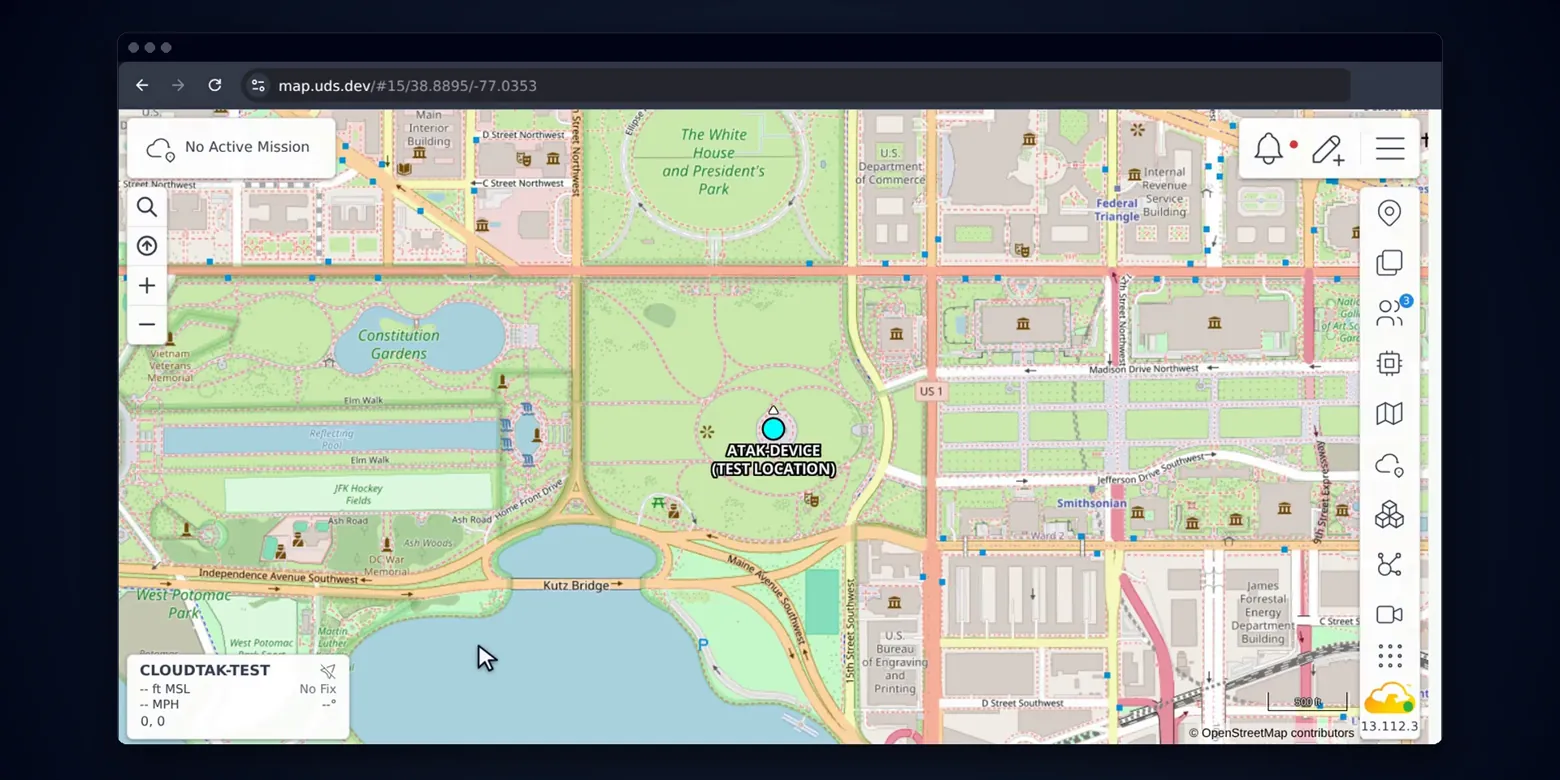
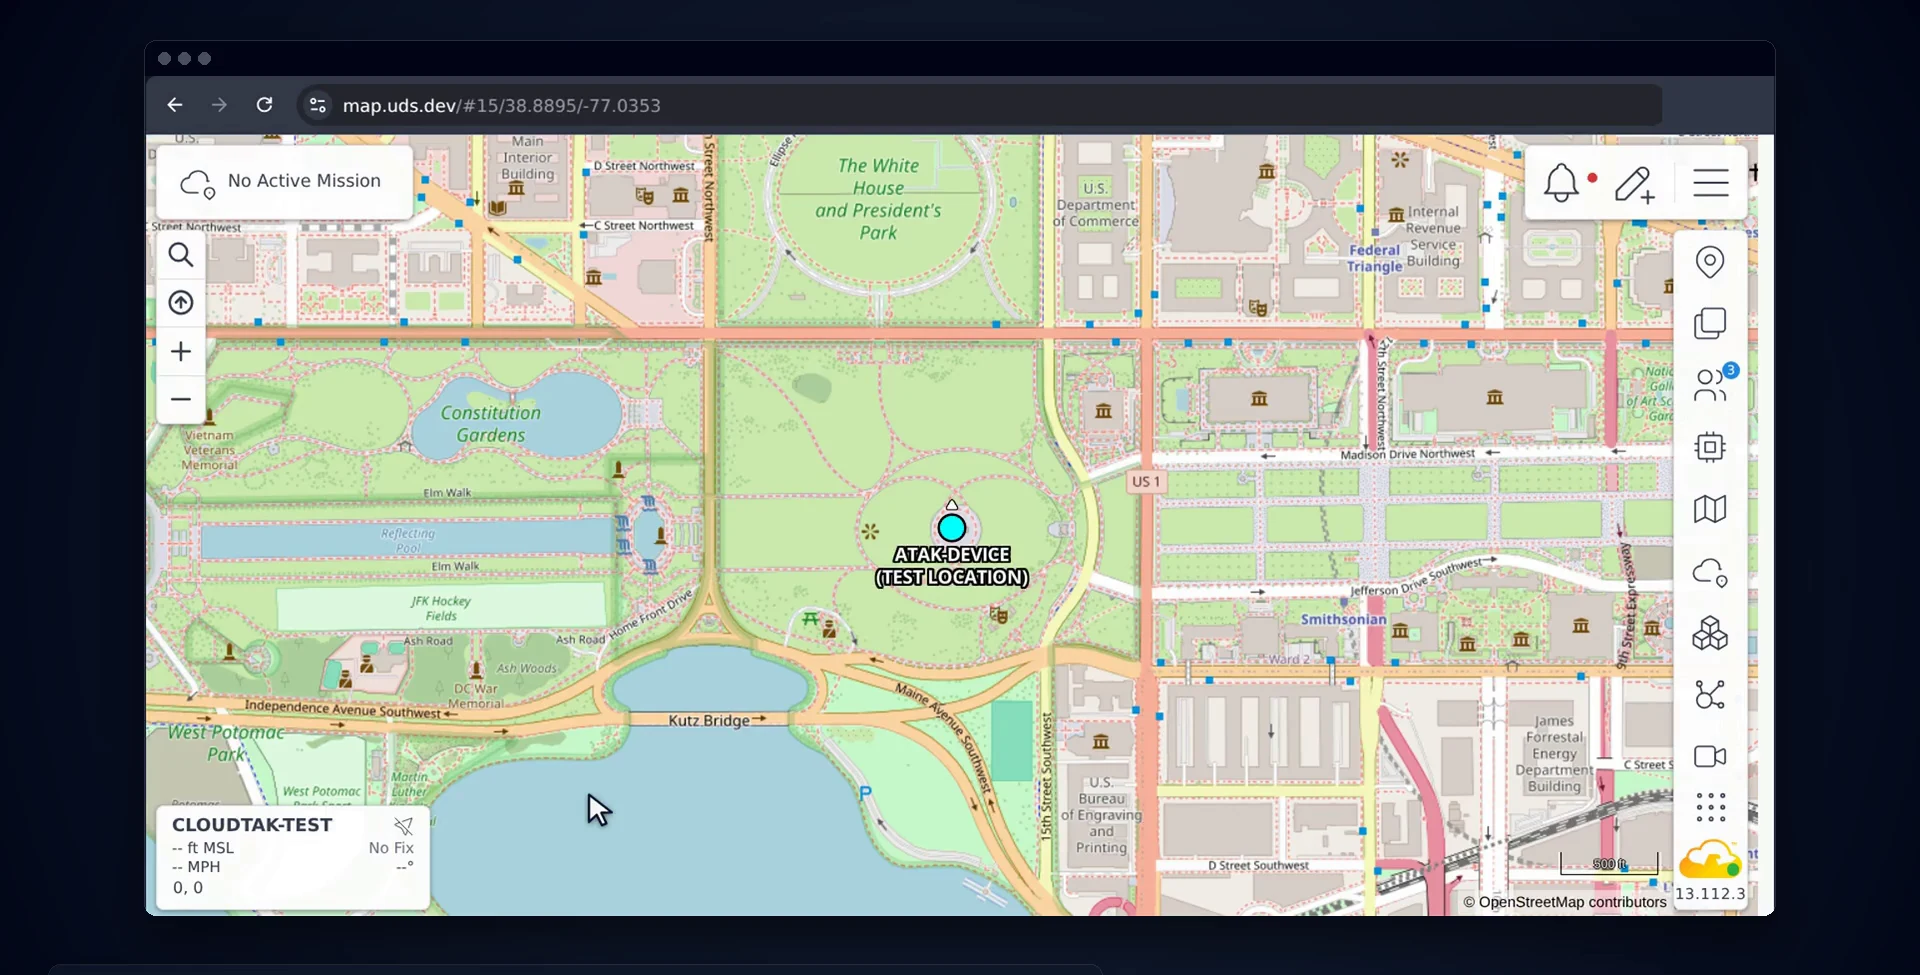
docs(readme): stack the ATAK device and CloudTAK screenshots (#302)

Changed region(s): [[0.0615, 0.0923, 0.9231, 0.9538]]

diff --git a/README.md b/README.md
@@ -6,16 +6,12 @@
 [![OpenSSF Best Practices](https://www.bestpractices.dev/projects/15775/badge)](https://www.bestpractices.dev/projects/15775)
 [![License: GPL-3.0-only](https://img.shields.io/badge/license-GPL--3.0--only-blue)](LICENSE)
 
-<table>
-  <tr>
-    <td align="center" width="40%"><a href="https://github.com/jonathanagustin/uds-k3d-takserver/releases/download/demo/demo-deploy.mp4"><img src="docs-site/public/demo/atak-device.png" alt="ATAK-CIV on an Android test device, connected to the server with its own marker" width="100%"></a></td>
-    <td align="center" width="60%"><a href="https://github.com/jonathanagustin/uds-k3d-takserver/releases/download/demo/demo-operate-and-trust.mp4"><img src="docs-site/public/demo/cloudtak-map.webp" alt="The same ATAK device's marker on the CloudTAK map in the browser" width="100%"></a></td>
-  </tr>
-  <tr>
-    <td align="center">A real ATAK device, connected over mutual TLS</td>
-    <td align="center">The same device on the CloudTAK map</td>
-  </tr>
-</table>
+<p align="center">
+  <a href="https://github.com/jonathanagustin/uds-k3d-takserver/releases/download/demo/demo-deploy.mp4"><img src="docs-site/public/demo/atak-device.webp" alt="atak.uds.dev: the ATAK test device, connected to TAK over mutual TLS on 8089" width="90%"></a>
+</p>
+<p align="center">
+  <a href="https://github.com/jonathanagustin/uds-k3d-takserver/releases/download/demo/demo-operate-and-trust.mp4"><img src="docs-site/public/demo/cloudtak-map.webp" alt="map.uds.dev: the same ATAK device's marker on the CloudTAK map" width="90%"></a>
+</p>
 
 [TAK Server](https://github.com/TAK-Product-Center/Server), the open-source Team Awareness Kit server, packaged for [UDS](https://docs.defenseunicorns.com/core/). It deploys the upstream TAK Server Helm chart (`5.7-RELEASE-14`) onto UDS Core. It adds Keycloak sign-in, the browser map client [CloudTAK](https://github.com/dfpc-coe/CloudTAK), and default-deny networking. It is built and tested on a local k3d cluster running `k3d-core-slim-dev` (UDS Core 1.16.0), on amd64 and arm64.
 
